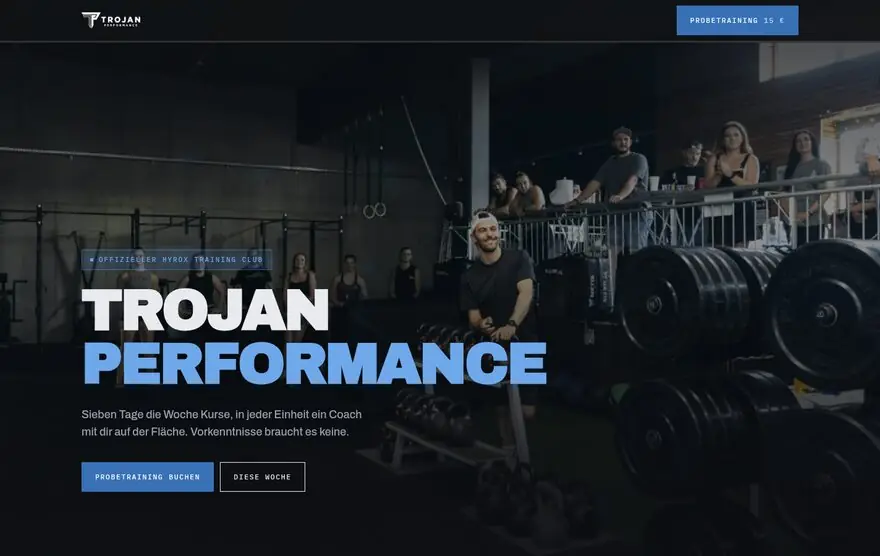
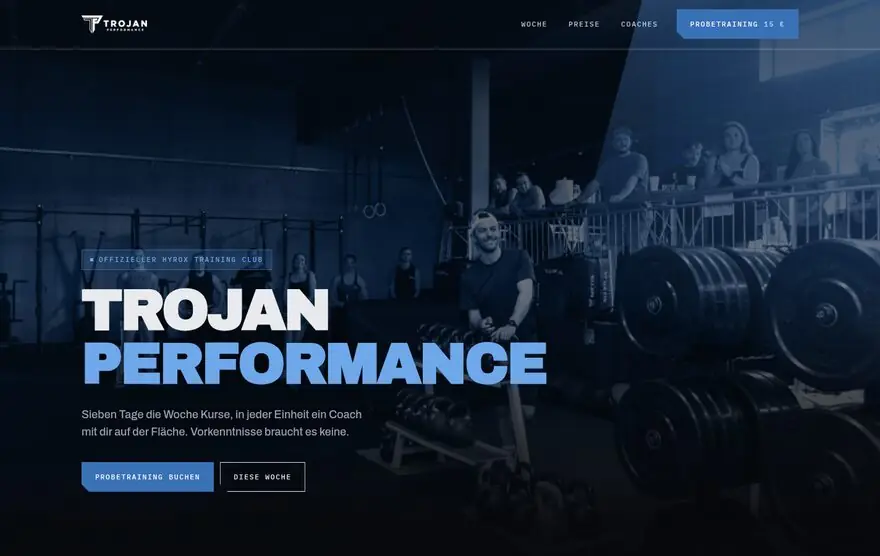
puls: Bühne und Kopfleiste wie in Arena
Der erste Bildschirm ist jetzt Arenas, nicht nur im Aufbau.

Duoton: Graustufe im Bild, darüber der blaue Verlauf im Farbmodus bei 0,82 und
eine dunkle Lage im Multiplikationsmodus. Werte und Verlauf sind aus Arena
übernommen, ebenso der Schleier von unten. Die scrollgetriebene Spannung rechnet
weiter darauf, die Graustufe steht jetzt in beiden Filterketten — sonst hätte
die Animation sie beim ersten Bild weggeworfen.

Der Keil: die Speerspitze über die rechten 44 Prozent, oben um 38 Prozent
angeschnitten, mit heller Kante. Unter 820 px ausgeblendet wie dort, weil das
Bild hochkant steht und die Schräge quer durchs Motiv liefe.

Kopfleiste: über der Bühne durchsichtig, beim Scrollen legt sie ihren Grund an.
Der Wechsel hängt an einem Fühler von einem Pixel am Seitenanfang statt an
einem Scroll-Behandler, der bei jedem Bild rechnet. Dazu die drei Sprungziele
und die geschnittene Ecke an der Schaltfläche.

Der Aufklapper ist so breit wie der Wochenplan, nicht so schmal wie der
Fliesstext: dahinter liegt eine Tabelle, keine Fussnote.

Der Preisabsatz ist einer. Drei Sätze: wofür die Zahl gilt, was sie enthält,
wofür sie steht. Die Einstiegsempfehlung hängt als Beisatz am ersten Satz,
statt sich mit "So ist der Einstieg gedacht" ein eigenes Gerüst zu bauen.

319 Wörter, Überlauf 0 bei 360, 390, 768 und 1280, keine Konsolenfehler.

Claude-Session: https://claude.ai/code/session_011seyKRZKnHmVqc44yjkGAQ

diff --git a/puls/index.html b/puls/index.html
@@ -79,6 +79,7 @@ button{font:inherit;color:inherit;background:none;border:0;cursor:pointer}
 .mono{font-family:var(--mono);font-weight:500;font-size:11px;letter-spacing:.18em;text-transform:uppercase}
 .huelle{max-width:1240px;margin-inline:auto;padding-inline:var(--rand)}
 
+.fuehler{position:absolute;top:0;left:0;width:1px;height:1px}
 .skip{position:absolute;left:-9999px;top:0;z-index:200;background:var(--blau);color:#fff;
   font-family:var(--mono);font-size:13px;padding:14px 20px;text-decoration:none}
 .skip:focus{left:0}
@@ -117,7 +118,7 @@ button{font:inherit;color:inherit;background:none;border:0;cursor:pointer}
      an, während es den Bildschirm verlässt. Ein Wert, drei Wirkungen. */
   .hero-bild{animation:spannen linear both;animation-timeline:view();animation-range:exit 0% exit 100%}
   .hero-bild img{transform:scale(calc(1 + var(--zug) * .06));
-    filter:contrast(calc(1.08 + var(--zug) * .5)) brightness(calc(1.16 - var(--zug) * .5))}
+    filter:grayscale(1) contrast(calc(1.04 + var(--zug) * .5)) brightness(calc(1.16 - var(--zug) * .5))}
   /* Die Kurve wird gezogen, während sie ins Bild kommt. */
   .kurve{animation:ziehen linear both;animation-timeline:view();animation-range:entry 10% cover 46%}
   /* Trennlinien werden gezogen, nicht gezeichnet. */
@@ -131,12 +132,29 @@ button{font:inherit;color:inherit;background:none;border:0;cursor:pointer}
 }}
 
 /* ── Kopf ────────────────────────────────────────────────────────────────── */
-.kopf{position:fixed;inset:0 0 auto;z-index:100;background:rgba(16,18,21,.92);
-  backdrop-filter:blur(14px)}
-.kopf-innen{display:flex;align-items:center;justify-content:space-between;gap:16px;
-  min-height:66px;padding-block:9px}
-.logo{height:26px;width:auto;filter:brightness(0) invert(1)}
+/* Kopfleiste wie in Arena: über der Bühne liegt sie durchsichtig auf dem Bild
+   und legt erst beim Scrollen ihren Grund an. Der Wechsel hängt an einem
+   Fühler von einem Pixel Höhe ganz oben — billiger als ein Scroll-Behandler,
+   der bei jedem Bild rechnet. */
+.kopf{position:fixed;inset:0 0 auto;z-index:100;background:transparent;
+  transition:background-color calc(var(--takt)/8) ease,backdrop-filter calc(var(--takt)/8) ease}
+.kopf.fest{background:rgba(16,18,21,.9);backdrop-filter:blur(16px)}
+.kopf-innen{display:flex;align-items:center;justify-content:space-between;gap:16px 30px;
+  min-height:78px;padding-block:9px;flex-wrap:wrap}
+.logo{height:29px;width:auto;filter:brightness(0) invert(1)}
 .marke{display:inline-flex;align-items:center;min-height:44px}
+.kopf-nav{display:flex;gap:clamp(16px,2.6vw,34px);list-style:none;margin-left:auto}
+.kopf-nav a{color:rgba(255,255,255,.74);text-decoration:none;font-family:var(--mono);
+  font-weight:500;font-size:11.5px;letter-spacing:.14em;text-transform:uppercase;
+  display:inline-flex;align-items:center;min-height:44px;
+  transition:color calc(var(--takt)/12) ease}
+.kopf-nav a:hover{color:#fff}
+/* Unter 1000 px bricht die Leiste um, statt Punkte zu verlieren: die vier
+   passen auf 360 px, sie standen nur alle links und liessen rechts Luft. */
+@media(max-width:1000px){
+  .kopf-nav{order:3;flex-basis:100%;margin-left:0;justify-content:space-between;gap:8px}
+  .kopf-innen{padding-block:12px 6px;min-height:0}
+}
 .spur{height:3px;background:rgba(255,255,255,.12);overflow:hidden}
 .spur i{display:block;height:100%;background:var(--blau);transform:scaleX(0);
   transform-origin:0 50%;will-change:transform}
@@ -148,6 +166,8 @@ button{font:inherit;color:inherit;background:none;border:0;cursor:pointer}
   min-height:48px;padding:0 22px;background:var(--blau);color:#fff;text-decoration:none;
   font-family:var(--mono);font-weight:500;font-size:11.5px;letter-spacing:.14em;
   text-transform:uppercase;white-space:nowrap;
+  /* Die abgeschnittene Ecke ist die Schräge aus der Wortmarke, wie in Arena. */
+  clip-path:polygon(0 0,100% 0,100% 100%,12px 100%,0 calc(100% - 12px));
   transition:background-color calc(var(--takt)/12) ease,transform calc(var(--takt)/12) ease}
 .btn:hover{background:#4a83cb}
 .btn:active{transform:scale(.965)}
@@ -191,9 +211,24 @@ h1 em,h2 em{font-style:normal;color:var(--blau-hoch)}
    Titelbild unter dem Verlauf flau. Der Ruhewert steht hier, den Rest rechnet
    die Spannung darüber. */
 .hero-bild img{width:100%;height:100%;object-fit:cover;object-position:56% 42%;
-  filter:contrast(1.08) brightness(1.16);will-change:transform}
+  filter:grayscale(1) contrast(1.04) brightness(1.16);will-change:transform}
+/* Duoton wie in Arena: Graustufe im Bild, darüber ein blauer Verlauf im
+   Farbmodus, der nur Farbton und Sättigung überträgt, und eine dunkle Lage im
+   Multiplikationsmodus für die Tiefe. Werte und Verlauf sind von dort. */
+.hero-bild .tint{position:absolute;inset:0;
+  background:linear-gradient(158deg,#78B0F2 0%,#2A5FA0 44%,#060C16 100%);
+  mix-blend-mode:color;opacity:.82}
+.hero-bild .mul{position:absolute;inset:0;background:rgba(6,10,18,.4);mix-blend-mode:multiply}
 .hero-bild::after{content:"";position:absolute;inset:0;
-  background:linear-gradient(to top,rgba(12,14,17,.95) 12%,rgba(12,14,17,.45) 58%,rgba(12,14,17,.8))}
+  background:linear-gradient(to top,rgba(6,8,11,.96) 6%,rgba(6,8,11,.26) 48%,rgba(6,8,11,.7) 100%)}
+/* Die Speerspitze aus der Wortmarke, diagonal über die rechte Seite, mit
+   heller Kante an der Schräge. Unter 820 px ausgeblendet, dort steht das Bild
+   hochkant und die Schräge liefe quer durchs Motiv. */
+.keil{position:absolute;right:0;top:0;bottom:0;width:44%;z-index:1;pointer-events:none;
+  background:linear-gradient(200deg,rgba(57,113,183,.34),transparent 60%);
+  clip-path:polygon(38% 0,100% 0,100% 100%,0 100%);
+  filter:drop-shadow(-1px 0 0 rgba(111,170,240,.55))}
+@media(max-width:820px){.keil{display:none}}
 .hero-innen{position:relative;z-index:2;width:100%}
 .etikett{display:inline-flex;align-items:center;gap:9px;color:var(--blau-hoch);
   padding:8px 14px;background:rgba(57,113,183,.2);box-shadow:inset 0 0 0 1px rgba(110,168,234,.4)}
@@ -282,7 +317,9 @@ h1 em,h2 em{font-style:normal;color:var(--blau-hoch)}
 /* Der Aufklapper ist ein Feld und keine Zeile: hinter ihm liegen dreizehn
    weitere Preise, und ein blosser Winkel am Zeilenanfang sah nach Überschrift
    aus. Rahmen, gerahmtes Plus davor, rechts das Wort. Form aus rotstift. */
-.mehr{margin-top:clamp(26px,3.4vw,40px);max-width:760px}
+/* So breit wie der Wochenplan, nicht so schmal wie der Fliesstext:
+   dahinter liegt eine Tabelle, keine Fussnote. */
+.mehr{margin-top:clamp(26px,3.4vw,40px)}
 .mehr summary{list-style:none;display:flex;align-items:center;gap:12px;min-height:56px;
   padding:8px 14px;box-shadow:inset 0 0 0 1px rgba(16,18,21,.18);
   cursor:pointer;font-family:var(--mono);font-size:11px;letter-spacing:.16em;
@@ -381,11 +418,17 @@ h1 em,h2 em{font-style:normal;color:var(--blau-hoch)}
 </style>
 </head>
 <body>
+<b class="fuehler" aria-hidden="true"></b>
 <a class="skip" href="#inhalt">Zum Inhalt</a>
 
 <header class="kopf">
   <div class="huelle kopf-innen">
     <a class="marke" href="#inhalt"><img class="logo" src="../assets/logo.png" alt="Trojan Performance"></a>
+    <ul class="kopf-nav">
+      <li><a href="#plan">Woche</a></li>
+      <li><a href="#preise">Preise</a></li>
+      <li><a href="#coaches">Coaches</a></li>
+    </ul>
     <a class="btn" href="#start">Probetraining <span class="zahl">15&nbsp;€</span></a>
   </div>
   <div class="spur" aria-hidden="true"><i></i></div>
@@ -396,7 +439,9 @@ h1 em,h2 em{font-style:normal;color:var(--blau-hoch)}
 <section class="band dunkel hero">
   <div class="hero-bild">
     <picture><source type="image/webp" srcset="../assets/o-hero.webp"><img src="../assets/o-hero.jpg" alt="Trainingsfläche mit Hantelracks, Gruppe im Hintergrund" fetchpriority="high"></picture>
+    <div class="tint"></div><div class="mul"></div>
   </div>
+  <div class="keil" aria-hidden="true"></div>
   <div class="huelle hero-innen">
     <p class="etikett mono"><b></b>Offizieller HYROX Training Club</p>
     <!-- „So empfiehlt es das Gym" stand hier und redete auf der eigenen Seite in
@@ -458,10 +503,12 @@ h1 em,h2 em{font-style:normal;color:var(--blau-hoch)}
   <div class="huelle">
     <p class="kopfzeile mono zug">Preise</p>
     <p class="preis-zahl zug">150 <small>€ im Monat</small></p>
-    <p class="lead zug v1">Für drei Einheiten pro Woche, keine Einschreibgebühr, der
-      Kraftaufbauplan ist dabei. Mit zwölf Monaten Bindung sind es 130 €.</p>
-    <p class="lead zug v1">So ist der Einstieg gedacht: zwei Einheiten für die Kraft,
-      eine für die Ausdauer. Nicht das billigste Gym der Stadt, dafür sparen wir nicht an
+    <!-- Ein Absatz, drei Sätze: wofür die Zahl gilt, was sie enthält, wofür sie
+         steht. Die Einstiegsempfehlung hängt als Beisatz am ersten Satz, statt
+         mit „So ist der Einstieg gedacht" ein eigenes Gerüst zu brauchen. -->
+    <p class="lead zug v1">Für drei Einheiten pro Woche, zwei für die Kraft, eine für die
+      Ausdauer. Keine Einschreibgebühr, der Kraftaufbauplan ist dabei, mit zwölf Monaten
+      Bindung sind es 130 €. Nicht das billigste Gym der Stadt, dafür sparen wir nicht an
       Betreuung, nicht an Zeit und nicht an Platz im Kurs.</p>
     <!-- Alles Weitere ist nicht weg, es steht nur nicht vor der einen Zahl,
          wegen der die meisten hier sind. -->
@@ -763,6 +810,17 @@ function kaskade(){
     [{clipPath:'inset(0 100% 0 0)'},{clipPath:'inset(0 0 0 0)'}],
     {duration:TAKT/4,delay:i*(TAKT/16),easing:'cubic-bezier(.2,.8,.3,1)',fill:'backwards'}));
 }
+
+/* Der Fühler ist ein Pixel am Seitenanfang. Verlässt er das Bild, hat der
+   Besucher gescrollt und die Kopfleiste legt ihren Grund an. Ein Beobachter
+   statt eines Scroll-Behandlers: der rechnet nur beim Übertreten, nicht bei
+   jedem Bild. */
+(function(){
+  const fuehler=document.querySelector('.fuehler'), kopf=document.querySelector('.kopf');
+  if(!fuehler||!kopf) return;
+  new IntersectionObserver(([e])=>kopf.classList.toggle('fest',!e.isIntersecting))
+    .observe(fuehler);
+})();
 
 document.getElementById('plan-woche').addEventListener('click',e=>{
   const b=e.target.closest('.eintrag[data-kurs]');

diff --git a/src/trojan-T-puls.src.html b/src/trojan-T-puls.src.html
@@ -77,6 +77,7 @@ button{font:inherit;color:inherit;background:none;border:0;cursor:pointer}
 .mono{font-family:var(--mono);font-weight:500;font-size:11px;letter-spacing:.18em;text-transform:uppercase}
 .huelle{max-width:1240px;margin-inline:auto;padding-inline:var(--rand)}
 
+.fuehler{position:absolute;top:0;left:0;width:1px;height:1px}
 .skip{position:absolute;left:-9999px;top:0;z-index:200;background:var(--blau);color:#fff;
   font-family:var(--mono);font-size:13px;padding:14px 20px;text-decoration:none}
 .skip:focus{left:0}
@@ -115,7 +116,7 @@ button{font:inherit;color:inherit;background:none;border:0;cursor:pointer}
      an, während es den Bildschirm verlässt. Ein Wert, drei Wirkungen. */
   .hero-bild{animation:spannen linear both;animation-timeline:view();animation-range:exit 0% exit 100%}
   .hero-bild img{transform:scale(calc(1 + var(--zug) * .06));
-    filter:contrast(calc(1.08 + var(--zug) * .5)) brightness(calc(1.16 - var(--zug) * .5))}
+    filter:grayscale(1) contrast(calc(1.04 + var(--zug) * .5)) brightness(calc(1.16 - var(--zug) * .5))}
   /* Die Kurve wird gezogen, während sie ins Bild kommt. */
   .kurve{animation:ziehen linear both;animation-timeline:view();animation-range:entry 10% cover 46%}
   /* Trennlinien werden gezogen, nicht gezeichnet. */
@@ -129,12 +130,29 @@ button{font:inherit;color:inherit;background:none;border:0;cursor:pointer}
 }}
 
 /* ── Kopf ────────────────────────────────────────────────────────────────── */
-.kopf{position:fixed;inset:0 0 auto;z-index:100;background:rgba(16,18,21,.92);
-  backdrop-filter:blur(14px)}
-.kopf-innen{display:flex;align-items:center;justify-content:space-between;gap:16px;
-  min-height:66px;padding-block:9px}
-.logo{height:26px;width:auto;filter:brightness(0) invert(1)}
+/* Kopfleiste wie in Arena: über der Bühne liegt sie durchsichtig auf dem Bild
+   und legt erst beim Scrollen ihren Grund an. Der Wechsel hängt an einem
+   Fühler von einem Pixel Höhe ganz oben — billiger als ein Scroll-Behandler,
+   der bei jedem Bild rechnet. */
+.kopf{position:fixed;inset:0 0 auto;z-index:100;background:transparent;
+  transition:background-color calc(var(--takt)/8) ease,backdrop-filter calc(var(--takt)/8) ease}
+.kopf.fest{background:rgba(16,18,21,.9);backdrop-filter:blur(16px)}
+.kopf-innen{display:flex;align-items:center;justify-content:space-between;gap:16px 30px;
+  min-height:78px;padding-block:9px;flex-wrap:wrap}
+.logo{height:29px;width:auto;filter:brightness(0) invert(1)}
 .marke{display:inline-flex;align-items:center;min-height:44px}
+.kopf-nav{display:flex;gap:clamp(16px,2.6vw,34px);list-style:none;margin-left:auto}
+.kopf-nav a{color:rgba(255,255,255,.74);text-decoration:none;font-family:var(--mono);
+  font-weight:500;font-size:11.5px;letter-spacing:.14em;text-transform:uppercase;
+  display:inline-flex;align-items:center;min-height:44px;
+  transition:color calc(var(--takt)/12) ease}
+.kopf-nav a:hover{color:#fff}
+/* Unter 1000 px bricht die Leiste um, statt Punkte zu verlieren: die vier
+   passen auf 360 px, sie standen nur alle links und liessen rechts Luft. */
+@media(max-width:1000px){
+  .kopf-nav{order:3;flex-basis:100%;margin-left:0;justify-content:space-between;gap:8px}
+  .kopf-innen{padding-block:12px 6px;min-height:0}
+}
 .spur{height:3px;background:rgba(255,255,255,.12);overflow:hidden}
 .spur i{display:block;height:100%;background:var(--blau);transform:scaleX(0);
   transform-origin:0 50%;will-change:transform}
@@ -146,6 +164,8 @@ button{font:inherit;color:inherit;background:none;border:0;cursor:pointer}
   min-height:48px;padding:0 22px;background:var(--blau);color:#fff;text-decoration:none;
   font-family:var(--mono);font-weight:500;font-size:11.5px;letter-spacing:.14em;
   text-transform:uppercase;white-space:nowrap;
+  /* Die abgeschnittene Ecke ist die Schräge aus der Wortmarke, wie in Arena. */
+  clip-path:polygon(0 0,100% 0,100% 100%,12px 100%,0 calc(100% - 12px));
   transition:background-color calc(var(--takt)/12) ease,transform calc(var(--takt)/12) ease}
 .btn:hover{background:#4a83cb}
 .btn:active{transform:scale(.965)}
@@ -189,9 +209,24 @@ h1 em,h2 em{font-style:normal;color:var(--blau-hoch)}
    Titelbild unter dem Verlauf flau. Der Ruhewert steht hier, den Rest rechnet
    die Spannung darüber. */
 .hero-bild img{width:100%;height:100%;object-fit:cover;object-position:56% 42%;
-  filter:contrast(1.08) brightness(1.16);will-change:transform}
+  filter:grayscale(1) contrast(1.04) brightness(1.16);will-change:transform}
+/* Duoton wie in Arena: Graustufe im Bild, darüber ein blauer Verlauf im
+   Farbmodus, der nur Farbton und Sättigung überträgt, und eine dunkle Lage im
+   Multiplikationsmodus für die Tiefe. Werte und Verlauf sind von dort. */
+.hero-bild .tint{position:absolute;inset:0;
+  background:linear-gradient(158deg,#78B0F2 0%,#2A5FA0 44%,#060C16 100%);
+  mix-blend-mode:color;opacity:.82}
+.hero-bild .mul{position:absolute;inset:0;background:rgba(6,10,18,.4);mix-blend-mode:multiply}
 .hero-bild::after{content:"";position:absolute;inset:0;
-  background:linear-gradient(to top,rgba(12,14,17,.95) 12%,rgba(12,14,17,.45) 58%,rgba(12,14,17,.8))}
+  background:linear-gradient(to top,rgba(6,8,11,.96) 6%,rgba(6,8,11,.26) 48%,rgba(6,8,11,.7) 100%)}
+/* Die Speerspitze aus der Wortmarke, diagonal über die rechte Seite, mit
+   heller Kante an der Schräge. Unter 820 px ausgeblendet, dort steht das Bild
+   hochkant und die Schräge liefe quer durchs Motiv. */
+.keil{position:absolute;right:0;top:0;bottom:0;width:44%;z-index:1;pointer-events:none;
+  background:linear-gradient(200deg,rgba(57,113,183,.34),transparent 60%);
+  clip-path:polygon(38% 0,100% 0,100% 100%,0 100%);
+  filter:drop-shadow(-1px 0 0 rgba(111,170,240,.55))}
+@media(max-width:820px){.keil{display:none}}
 .hero-innen{position:relative;z-index:2;width:100%}
 .etikett{display:inline-flex;align-items:center;gap:9px;color:var(--blau-hoch);
   padding:8px 14px;background:rgba(57,113,183,.2);box-shadow:inset 0 0 0 1px rgba(110,168,234,.4)}
@@ -280,7 +315,9 @@ h1 em,h2 em{font-style:normal;color:var(--blau-hoch)}
 /* Der Aufklapper ist ein Feld und keine Zeile: hinter ihm liegen dreizehn
    weitere Preise, und ein blosser Winkel am Zeilenanfang sah nach Überschrift
    aus. Rahmen, gerahmtes Plus davor, rechts das Wort. Form aus rotstift. */
-.mehr{margin-top:clamp(26px,3.4vw,40px);max-width:760px}
+/* So breit wie der Wochenplan, nicht so schmal wie der Fliesstext:
+   dahinter liegt eine Tabelle, keine Fussnote. */
+.mehr{margin-top:clamp(26px,3.4vw,40px)}
 .mehr summary{list-style:none;display:flex;align-items:center;gap:12px;min-height:56px;
   padding:8px 14px;box-shadow:inset 0 0 0 1px rgba(16,18,21,.18);
   cursor:pointer;font-family:var(--mono);font-size:11px;letter-spacing:.16em;
@@ -379,11 +416,17 @@ h1 em,h2 em{font-style:normal;color:var(--blau-hoch)}
 </style>
 </head>
 <body>
+<b class="fuehler" aria-hidden="true"></b>
 <a class="skip" href="#inhalt">Zum Inhalt</a>
 
 <header class="kopf">
   <div class="huelle kopf-innen">
     <a class="marke" href="#inhalt"><img class="logo" src="__LOGO__" alt="Trojan Performance"></a>
+    <ul class="kopf-nav">
+      <li><a href="#plan">Woche</a></li>
+      <li><a href="#preise">Preise</a></li>
+      <li><a href="#coaches">Coaches</a></li>
+    </ul>
     <a class="btn" href="#start">Probetraining <span class="zahl">15&nbsp;€</span></a>
   </div>
   <div class="spur" aria-hidden="true"><i></i></div>
@@ -394,7 +437,9 @@ h1 em,h2 em{font-style:normal;color:var(--blau-hoch)}
 <section class="band dunkel hero">
   <div class="hero-bild">
     <img src="__PH_HERO__" alt="Trainingsfläche mit Hantelracks, Gruppe im Hintergrund" fetchpriority="high">
+    <div class="tint"></div><div class="mul"></div>
   </div>
+  <div class="keil" aria-hidden="true"></div>
   <div class="huelle hero-innen">
     <p class="etikett mono"><b></b>Offizieller HYROX Training Club</p>
     <!-- „So empfiehlt es das Gym" stand hier und redete auf der eigenen Seite in
@@ -456,10 +501,12 @@ h1 em,h2 em{font-style:normal;color:var(--blau-hoch)}
   <div class="huelle">
     <p class="kopfzeile mono zug">Preise</p>
     <p class="preis-zahl zug">150 <small>€ im Monat</small></p>
-    <p class="lead zug v1">Für drei Einheiten pro Woche, keine Einschreibgebühr, der
-      Kraftaufbauplan ist dabei. Mit zwölf Monaten Bindung sind es 130 €.</p>
-    <p class="lead zug v1">So ist der Einstieg gedacht: zwei Einheiten für die Kraft,
-      eine für die Ausdauer. Nicht das billigste Gym der Stadt, dafür sparen wir nicht an
+    <!-- Ein Absatz, drei Sätze: wofür die Zahl gilt, was sie enthält, wofür sie
+         steht. Die Einstiegsempfehlung hängt als Beisatz am ersten Satz, statt
+         mit „So ist der Einstieg gedacht" ein eigenes Gerüst zu brauchen. -->
+    <p class="lead zug v1">Für drei Einheiten pro Woche, zwei für die Kraft, eine für die
+      Ausdauer. Keine Einschreibgebühr, der Kraftaufbauplan ist dabei, mit zwölf Monaten
+      Bindung sind es 130 €. Nicht das billigste Gym der Stadt, dafür sparen wir nicht an
       Betreuung, nicht an Zeit und nicht an Platz im Kurs.</p>
     <!-- Alles Weitere ist nicht weg, es steht nur nicht vor der einen Zahl,
          wegen der die meisten hier sind. -->
@@ -761,6 +808,17 @@ function kaskade(){
     [{clipPath:'inset(0 100% 0 0)'},{clipPath:'inset(0 0 0 0)'}],
     {duration:TAKT/4,delay:i*(TAKT/16),easing:'cubic-bezier(.2,.8,.3,1)',fill:'backwards'}));
 }
+
+/* Der Fühler ist ein Pixel am Seitenanfang. Verlässt er das Bild, hat der
+   Besucher gescrollt und die Kopfleiste legt ihren Grund an. Ein Beobachter
+   statt eines Scroll-Behandlers: der rechnet nur beim Übertreten, nicht bei
+   jedem Bild. */
+(function(){
+  const fuehler=document.querySelector('.fuehler'), kopf=document.querySelector('.kopf');
+  if(!fuehler||!kopf) return;
+  new IntersectionObserver(([e])=>kopf.classList.toggle('fest',!e.isIntersecting))
+    .observe(fuehler);
+})();
 
 document.getElementById('plan-woche').addEventListener('click',e=>{
   const b=e.target.closest('.eintrag[data-kurs]');
